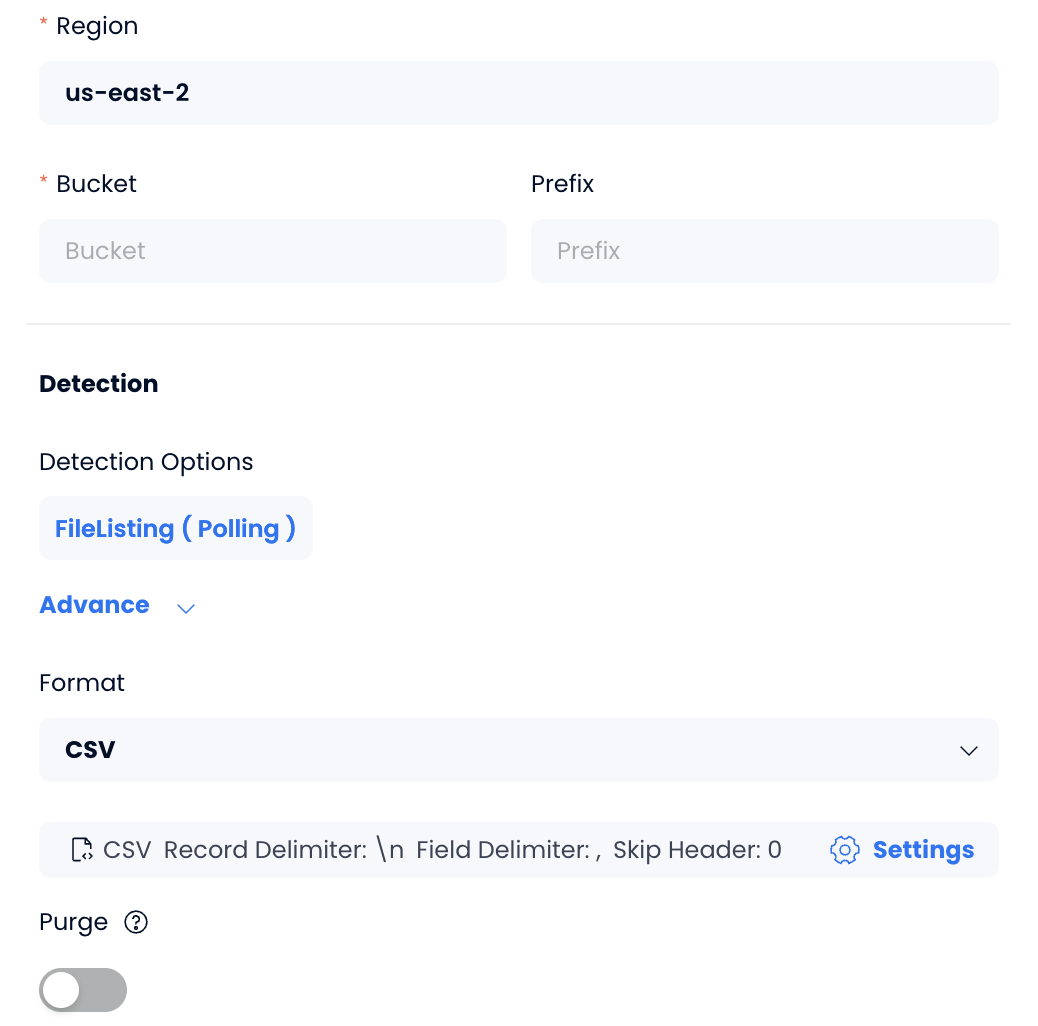
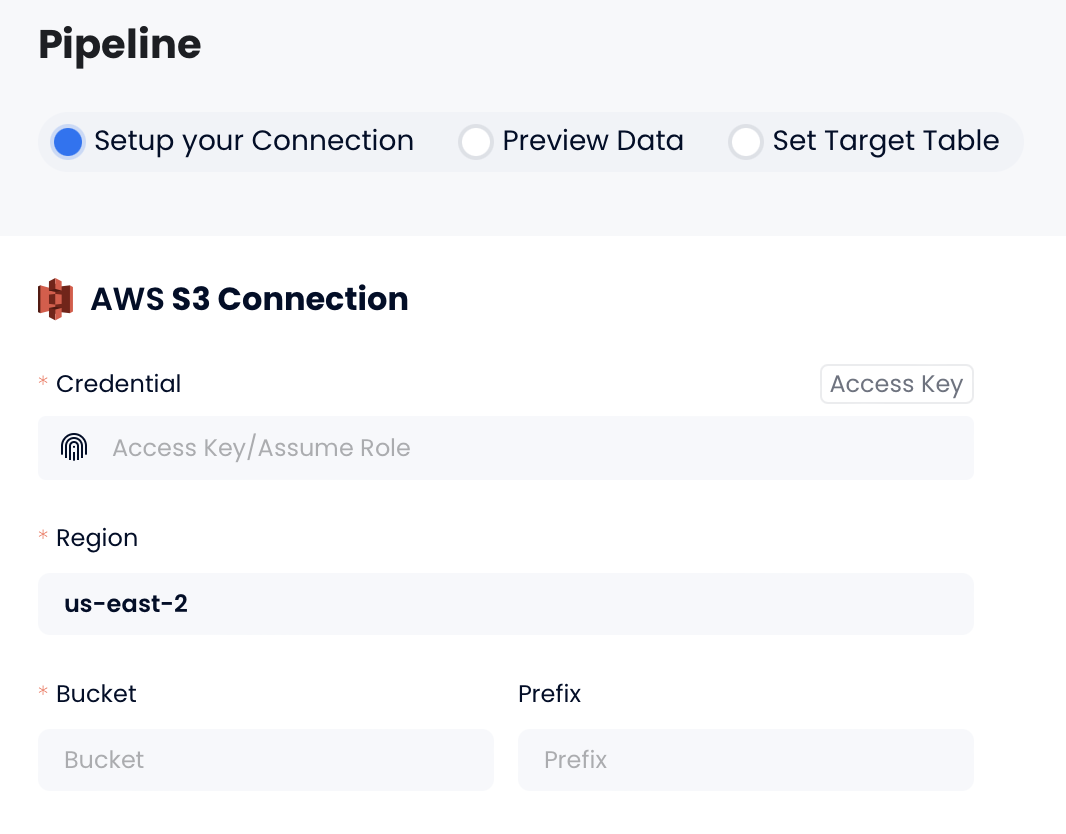
pipeline updates

diff --git a/docs/guides/40-load-data/05-continuous-data-pipelines/00-pipeline.md b/docs/guides/40-load-data/05-continuous-data-pipelines/00-pipeline.md
@@ -3,13 +3,13 @@ title: Loading Data via Pipelines
 sidebar_label: Pipeline
 ---
 
-A pipeline in Databend Cloud allows for automatic discovery of file updates from Amazon S3 and automatically loads them into a table. Here are some scenarios where using a pipeline is recommended:
+A pipeline in Databend Cloud allows for automatic discovery of file updates from object storage and automatically loads them into a table. Here are some scenarios where using a pipeline is recommended:
 
-- You have a large number of CSV or Parquet files in an S3 bucket and want to load them to Databend Cloud in one go for further analysis.
+- You have a large number of CSV or Parquet files in your bucket and want to load them to Databend Cloud in one go for further analysis.
 
-- AWS automatically loads data into your S3 buckets, such as billing data, which can be automatically loaded into Databend Cloud for visualization and further analysis.
+- The object storage automatically loads data into your buckets, such as billing data, which can be automatically loaded into Databend Cloud for visualization and further analysis.
 
-- You have a continuous stream of user behavior logs being stored in S3, which can be automatically loaded into Databend Cloud using pipelines for further analysis.
+- You have a continuous stream of user behavior logs being stored into your object storage, which can be automatically loaded into Databend Cloud using pipelines for further analysis.
 
 :::tip Pipeline Now Free
 During public beta, pipeline is offered free of charge on Databend Cloud. Limit of 4 Pipelines per organization. Contact us by submitting a ticket for additional requests.
@@ -25,9 +25,7 @@ To create a pipeline in Databend Cloud, you must first create a table that will 
 
 ![Alt text](@site/static/img/documents/loading-data/pipeline-1.png)
 
-2. Click **Configuration** to create a pipeline, then provide the required information to enable access to your files in an Amazon S3 bucket.
-
-    If you import CSV files, you can specify details about the file format by clicking **Settings**.
+2. Click **Configuration** to open the pipeline setup page, then follow the instructions to create a pipeline.
 
 ![Alt text](@site/static/img/documents/loading-data/pipeline-2.png)
 
@@ -37,9 +35,8 @@ To create a pipeline in Databend Cloud, you must first create a table that will 
 
 ## Activating or Deactivating a Pipeline
 
-Once created successfully, a pipeline is activated by default. The pipeline will periodically detect your file changes on Amazon S3 and automatically load them into the table in Databend Cloud until you deactivate it. 
+Once created successfully, a pipeline is activated by default. The pipeline will periodically detect the file changes on your object storage and automatically load them into the table in Databend Cloud until you deactivate it. 
 
 To deactivate a pipeline, go to the **Pipeline** tab and toggle the **Active** button. 
 
 ![Alt text](@site/static/img/documents/loading-data/pipeline-4.png)
-
